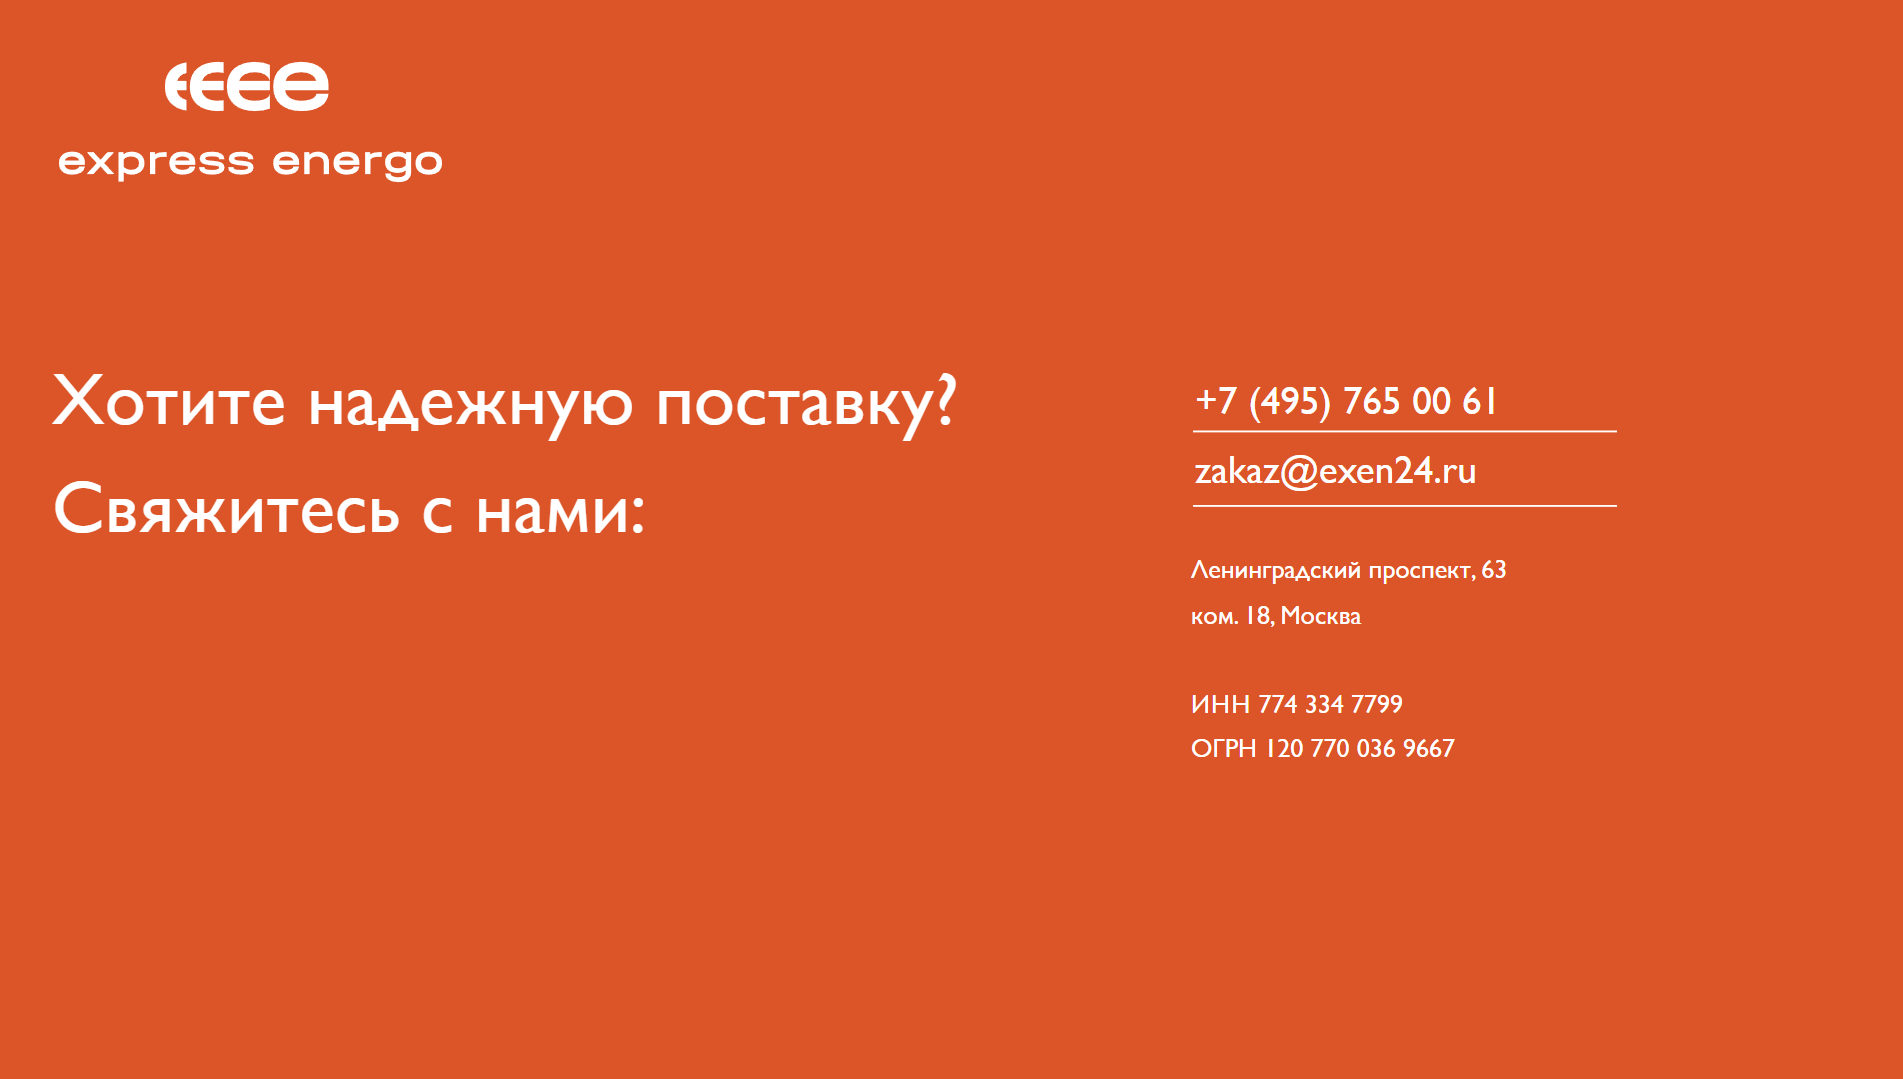
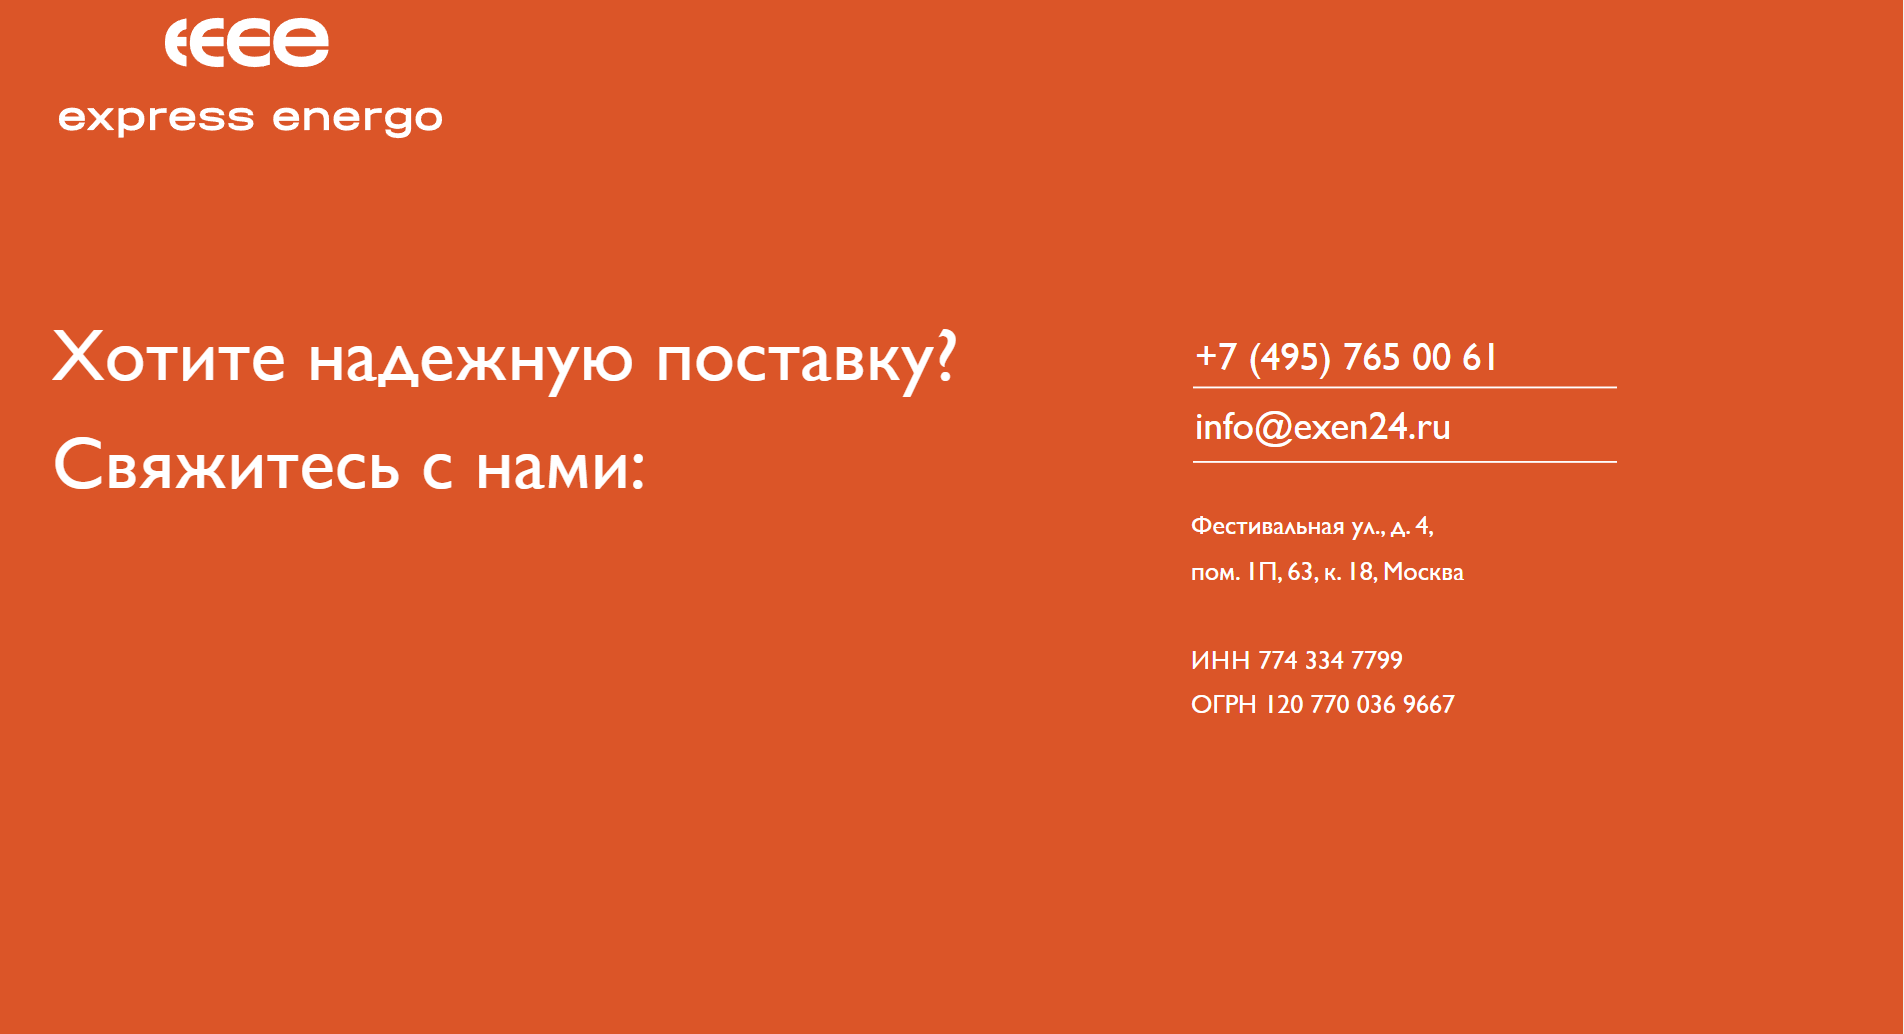
* added dummy site mobile

diff --git a/html/exen24.ru.css b/html/exen24.ru.css
@@ -12,3 +12,18 @@ body:hover {
     width: 100%;
     height: 100%;
 }
+
+.screenshot-mobile {
+    display: none;
+    width: 100%;
+    height: 100%;
+}
+
+@media (max-width: 576px) {
+    .screenshot {
+        display: none;
+    }
+    .screenshot-mobile {
+        display: block;
+    }
+}

diff --git a/html/index.html b/html/index.html
@@ -26,5 +26,6 @@
 </head>
 <body>
     <img class="screenshot" src="screenshot_fixed.png" alt="Express energo" title="Express energo">
+    <img class="screenshot-mobile" src="screenshot_fixed_mobile.png" alt="Express energo" title="Express energo">
 </body>
 </html>
